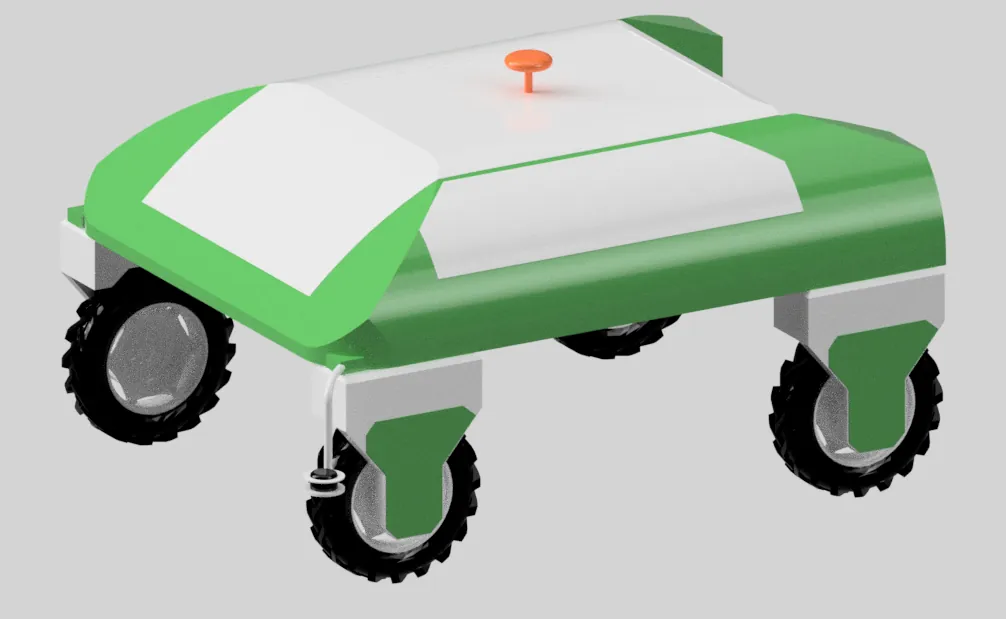
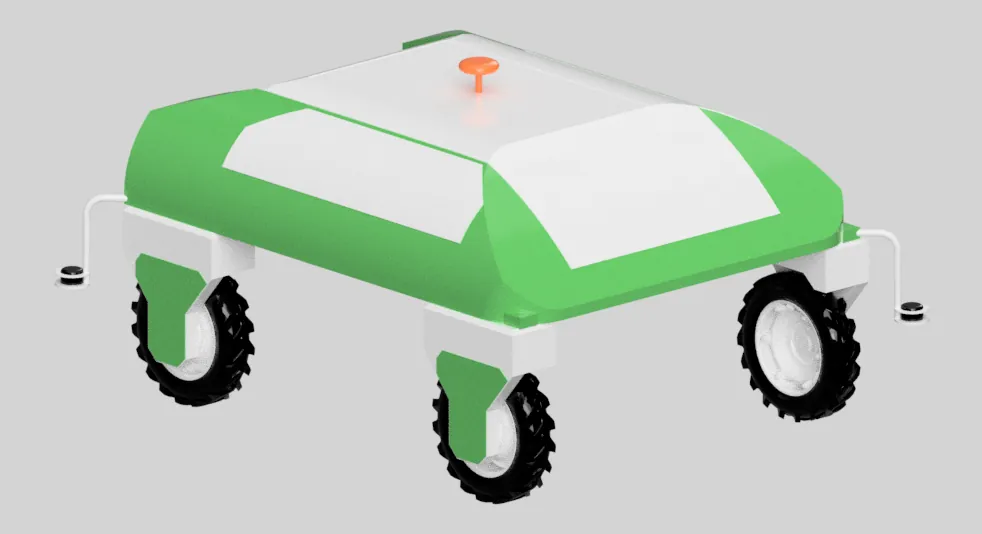
Ajoute le vrai Dino, sa simulation Gazebo et l'interface de supervision
La fiche s'ouvrait sur un rendu CAO ; elle s'ouvre maintenant sur la machine
elle-même, capot relevé en atelier. C'est aussi cette photo que porte la
vignette du parcours, à la place du modèle 3D.

Les six vues suivent le fil de la fiche : le robot réel, ses deux vues 3D, le
jumeau numérique sous Gazebo, l'interface de supervision, puis la vidéo. Les
fichiers sont renumérotés 1 à 5 pour que la numérotation colle à l'ordre
d'affichage, comme sur l'album du robot tondeuse.

Deux étapes du déroulé n'avaient aucune illustration et en ont une désormais :
le jumeau numérique (étape 06) et la téléopération (étape 07).

Sur la capture Foxglove, la latitude et la longitude du terrain d'essai sont
floutées à la demande de l'auteur. Le flou est appliqué à l'export, pas en
CSS : les valeurs ne sont dans aucun fichier publié. L'altitude, le cap et les
libellés restent lisibles, le panneau reste donc compréhensible.

L'interface est l'oeuvre de Romain, publiée avec son accord.

Vérifié : mise en page sur 5 largeurs, médias, espacements, chargement des six
diapositives, et couverture des traductions en clair comme en sombre.

Claude-Session: https://claude.ai/code/session_013nVmxocPSqsDezJhRBZMYa

diff --git a/index.html b/index.html
@@ -299,7 +299,7 @@
                    le stage Industeam plus bas. -->
               <button type="button" class="tl__shot tilt" data-album="prj-dino"
                       aria-haspopup="dialog" aria-label="Ouvrir la fiche du projet Dino">
-                <img src="assets/projets/dino/1-sm.webp" width="800" height="435"
+                <img src="assets/projets/dino/1.webp" width="627" height="744"
                      loading="lazy" decoding="async" alt="">
                 <span class="tl__shot-label">
                   <svg class="ico" aria-hidden="true"><use href="#i-arrow"></use></svg>
@@ -985,7 +985,16 @@
         <div class="album__viewer">
           <div class="album__frame tilt">
             <figure class="album__slide is-current">
-              <img src="assets/projets/dino/1.webp" width="982" height="534"
+              <img src="assets/projets/dino/1.webp" width="627" height="744"
+                   loading="lazy" decoding="async"
+                   alt="Le Dino en atelier, capot relevé sur la batterie et l'électronique de bord">
+              <figcaption>
+                Le Dino en atelier, capot relevé : la batterie et l'électronique de bord
+                sont accessibles, et l'un des capteurs SICK est monté sur la jambe avant.
+              </figcaption>
+            </figure>
+            <figure class="album__slide">
+              <img src="assets/projets/dino/2.webp" width="982" height="534"
                    loading="lazy" decoding="async"
                    alt="Modèle 3D du robot Dino : châssis surbaissé porté par quatre roues motrices et directrices">
               <figcaption>
@@ -995,7 +1004,7 @@
               </figcaption>
             </figure>
             <figure class="album__slide">
-              <img src="assets/projets/dino/2.webp" width="1006" height="619"
+              <img src="assets/projets/dino/3.webp" width="1006" height="619"
                    loading="lazy" decoding="async"
                    alt="Le même modèle vu de plus bas : les quatre trains de roues et l'arrêt d'urgence sur le capot">
               <figcaption>
@@ -1004,8 +1013,28 @@
               </figcaption>
             </figure>
             <figure class="album__slide">
+              <img src="assets/projets/dino/4.webp" width="1273" height="784"
+                   loading="lazy" decoding="async"
+                   alt="Le Dino simulé sous Gazebo, dans une scène d'essai semée d'obstacles">
+              <figcaption>
+                Le jumeau numérique sous Gazebo : le même robot, dans une scène semée
+                d'obstacles, pour vérifier avant le terrain ce qui coûte cher à découvrir
+                dessus.
+              </figcaption>
+            </figure>
+            <figure class="album__slide">
+              <img src="assets/projets/dino/5.webp" width="1849" height="878"
+                   loading="lazy" decoding="async"
+                   alt="Interface de supervision Foxglove : modes de conduite, état du châssis, carte lidar, GPS et sécurité">
+              <figcaption>
+                L'interface de supervision, construite sous Foxglove : modes de conduite,
+                consignes du châssis, carte lidar, position GPS et état de la chaîne de
+                sécurité. Les coordonnées du terrain d'essai sont masquées.
+              </figcaption>
+            </figure>
+            <figure class="album__slide">
               <div class="embed" data-portrait data-video="Ehp5dpJvLVo" data-label="Dino"
-                   data-poster="assets/projets/dino/1-sm.webp">
+                   data-poster="assets/projets/dino/1.webp">
                 <!-- Repli sans JavaScript : le lien vers la vidéo reste utilisable -->
                 <a href="https://youtube.com/shorts/Ehp5dpJvLVo" target="_blank" rel="noopener noreferrer">
                   Voir la vidéo sur YouTube

diff --git a/js/i18n.js b/js/i18n.js
@@ -625,6 +625,18 @@
     'Le rover assemblé, posé sur un plan de travail': 'The assembled rover on a workbench',
     'Le rover modélisé sous SolidWorks': 'The rover modelled in SolidWorks',
     'Vue éclatée des composants du rover': 'Exploded view of the rover components',
+    'Le Dino en atelier, capot relevé : la batterie et l\'électronique de bord sont accessibles, et l\'un des capteurs SICK est monté sur la jambe avant.':
+      'The Dino in the workshop, hood raised: the battery and the on-board electronics are within reach, and one of the SICK sensors sits on the front leg.',
+    'Le Dino en atelier, capot relevé sur la batterie et l\'électronique de bord':
+      'The Dino in the workshop, hood raised over the battery and the on-board electronics',
+    'Le jumeau numérique sous Gazebo : le même robot, dans une scène semée d\'obstacles, pour vérifier avant le terrain ce qui coûte cher à découvrir dessus.':
+      'The digital twin in Gazebo: the same robot, in a scene strewn with obstacles, to check before going out what is expensive to discover in the field.',
+    'Le Dino simulé sous Gazebo, dans une scène d\'essai semée d\'obstacles':
+      'The Dino simulated in Gazebo, in a test scene strewn with obstacles',
+    'L\'interface de supervision, construite sous Foxglove : modes de conduite, consignes du châssis, carte lidar, position GPS et état de la chaîne de sécurité. Les coordonnées du terrain d\'essai sont masquées.':
+      'The supervision interface, built in Foxglove: driving modes, chassis setpoints, lidar map, GPS position and the state of the safety chain. The test site coordinates are masked.',
+    'Interface de supervision Foxglove : modes de conduite, état du châssis, carte lidar, GPS et sécurité':
+      'Foxglove supervision interface: driving modes, chassis state, lidar map, GPS and safety',
     'Le matériel à piloter, modélisé en 3D : quatre roues motrices, chacune orientée par son propre actionneur — soit les huit articulations que la commande doit coordonner.':
       'The hardware to drive, modelled in 3D: four driven wheels, each steered by its own actuator — the eight joints the control layer has to coordinate.',
     'Modèle 3D du robot Dino : châssis surbaissé porté par quatre roues motrices et directrices':
